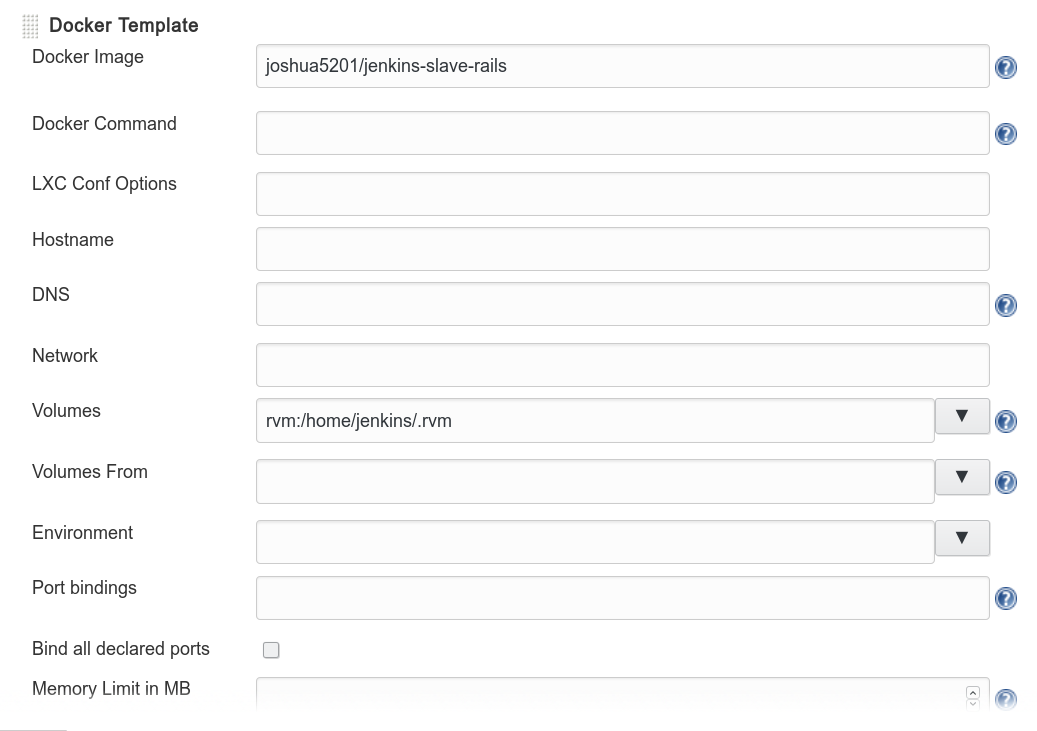
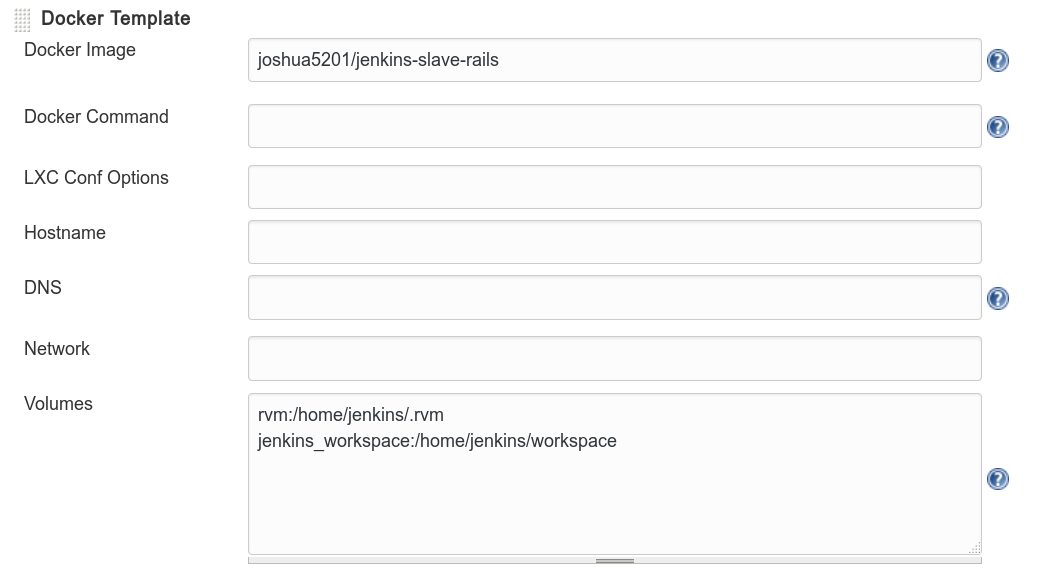
Add custom workspace

diff --git a/README.md b/README.md
@@ -7,11 +7,12 @@
 ## Prepare Docker Image
 1. Pull image: `docker pull joshua5201/jenkins-slave-rails`
 2. Create volume for RVM: `docker volume create --name rvm`
-3. Install RVM in docker: `sudo docker run -v rvm:/home/jenkins/.rvm -it joshua5201/jenkins-slave-rails /bin/bash`
-4. Inside docker: 
+3. Create volume for Workspace: `docker volume create --name jenkins_workspace`
+4. Install RVM in docker: `sudo docker run -v rvm:/home/jenkins/.rvm -it joshua5201/jenkins-slave-rails /bin/bash`
+5. Inside docker: 
     - `su -l jenkins`
     - `curl -sSL https://get.rvm.io | bash -s stable`
-5. After this, when using other dockers based on mine, you only need to mount rvm on it. (by `-v rvm:/home/jenkins/.rvm`)
+6. After this, when using other dockers based on mine, you only need to mount rvm on it. (by `-v rvm:/home/jenkins/.rvm`)
 
 ## Jenkins Configuration
 1. Follow the default steps and create first administrator user
@@ -20,13 +21,14 @@
     - set name, docker url
     - Add docker template
     - Docker image: joshua5201/jenkins-slave-rails
-    - Container settings -> Volumes: rvm:/home/jenkins/.rvm
+    - Container settings -> Volumes: rvm:/home/jenkins/.rvm jenkins\_workspace:/home/jenkins/workspace
     - Remote Filing System Root: /home/jenkins
     - Labels: docker
     - Add Credentials -> username with password -> jenkins/jenkins
 
 ## Create Build Job
 1. New Item -> Enter name -> Choose freestyle item
+2. General -> Advanced -> Custom Workspace:  jenkins\_workspace:/home/jenkins/workspace
 2. Restrict where this project can be run: docker (or whatever labels you set for dockers)
 3. Source Code Management: git -> set repo url -> add credentials (ssh private key with username 'git')
 4. Build Environment: Run the build in a RVM-managed environment -> choose your implementation 
